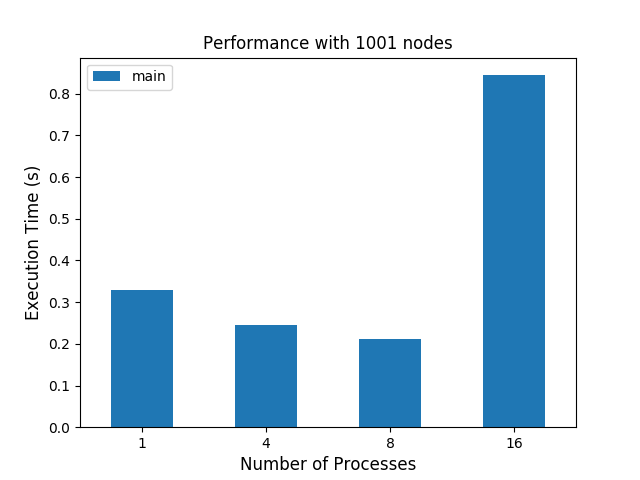
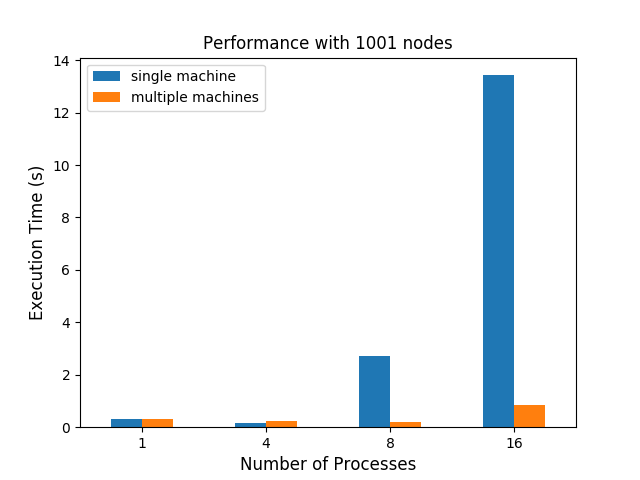
Update results

diff --git a/lab4/stats_gen.py b/lab4/stats_gen.py
@@ -14,7 +14,7 @@ output = []
 
 def gen_graph(data, node_size):
     plt.figure()
-    df2 = pandas.DataFrame(data, columns=EXECUTABLES)
+    df2 = pandas.DataFrame(data, columns=["single machine", "multiple machines"])
     ax = df2.plot.bar()
 
     plt.title('Performance with {} nodes'.format(node_size), fontsize=12)
@@ -30,12 +30,21 @@ for i in range(len(DATA_SIZES)):
     for proc_size in PROC_SIZES:
         means.append([])
         for executable in EXECUTABLES:
-            latency_file = "./{}/{}-{}-{}.txt".format(TEST_RESULTS_DIR, executable, data_size, proc_size)
+            latency_file_multiple = "./{}/{}-{}-{}.txt".format(TEST_RESULTS_DIR, executable, data_size, proc_size)
+            latency_file_single = "./{}/{}-{}-{}-single.txt".format(TEST_RESULTS_DIR, executable, data_size, proc_size)
+
             mean_latency = 0
 
-            with open(latency_file) as file:
+            with open(latency_file_single) as file:
                 data = [float(line.strip()) for line in file.readlines()]
                 mean_latency = sum(data) / float(len(data))
                 means[-1].append(mean_latency)
+
+            with open(latency_file_multiple) as file:
+                data = [float(line.strip()) for line in file.readlines()]
+                mean_latency = sum(data) / float(len(data))
+                means[-1].append(mean_latency)
+
     print("Means for {}: {}".format(node_size, means))
+
     gen_graph(means, node_size)

diff --git a/lab4/gen-results.py b/lab4/gen-results.py
@@ -24,6 +24,6 @@ for data_size in DATA_SIZES:
     for proc_size in PROC_SIZES:
         print("Testing {} with a data size of {} and process count of {}.".format(EXECUTABLE, data_size, proc_size))
         for i in range(TOTAL_RUNS):
-            results_file = "./{0}/{1}-{2}-{3}.txt".format(OUT_DIR, EXECUTABLE, data_size, proc_size)
-            launch_command = "mpirun -np {} -f hosts ./{} | tail -n 1 >> {}".format(proc_size, EXECUTABLE, results_file)
+            results_file = "./{0}/{1}-{2}-{3}-single.txt".format(OUT_DIR, EXECUTABLE, data_size, proc_size)
+            launch_command = "mpirun -np {} ./{} | tail -n 1 >> {}".format(proc_size, EXECUTABLE, results_file)
             process = exec_command(launch_command)
